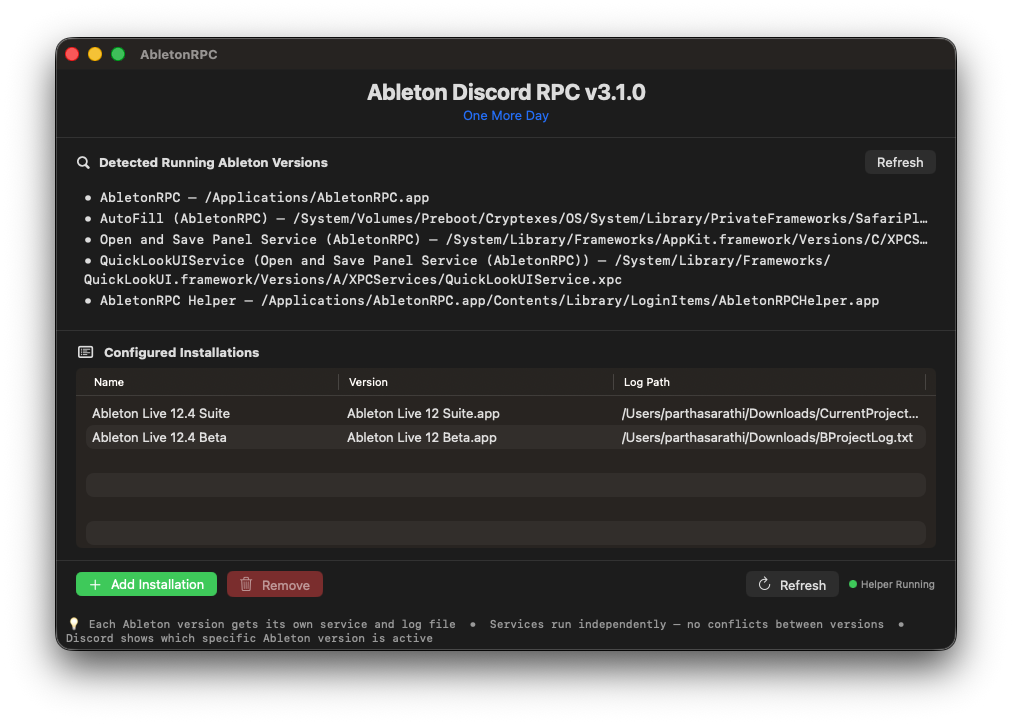
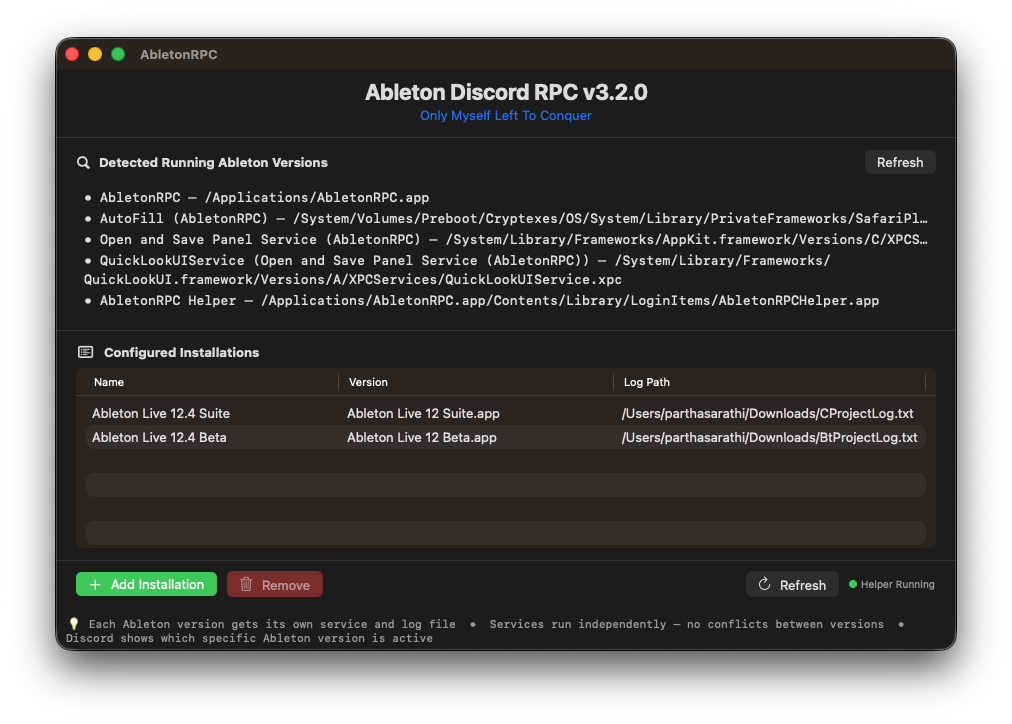
Bumped version to 3.2.0 and fixed per-track monitoring

Changed region(s): [[0.3676, 0.0912, 0.6433, 0.1823], [0.8271, 0.547, 0.919, 0.6381]]

diff --git a/AbletonRPC/ContentView.swift b/AbletonRPC/ContentView.swift
@@ -33,9 +33,9 @@ struct ContentView: View {
 
     private var header: some View {
         VStack(spacing: 2) {
-            Text("Ableton Discord RPC v3.1.0")
+            Text("Ableton Discord RPC v3.2.0")
                 .font(.system(size: 22, weight: .bold))
-            Text("One More Day")
+            Text("Only Myself Left To Conquer")
                 .font(.system(size: 13))
                 .foregroundColor(.accentColor)
         }

diff --git a/Resources/ableton_rpc.py b/Resources/ableton_rpc.py
@@ -241,9 +241,17 @@ class FauxMIDI(ControlSurface):
             self._debug_log(f"Listener setup error: {e}")
 
     def _get_track_info(self):
-        """Return (track_name, track_type, device_name) for the currently selected track."""
+        """Return (track_name, track_type, device_name) for the currently selected track.
+
+        Device selection priority (v3.2.0):
+          - 0 devices  → None
+          - 1 device   → show it regardless of type
+          - 2 devices  → show the LAST one (first is usually the instrument, e.g. Serum)
+          - 3+ devices → show the currently focused device (user has explicitly selected something)
+        Device type codes: 0=AudioEffect, 1=Instrument, 2=MIDIEffect
+        """
         try:
-            view = self.song.view
+            view  = self.song.view
             track = getattr(view, "selected_track", None)
             if track is None:
                 return None, None, None
@@ -260,18 +268,36 @@ class FauxMIDI(ControlSurface):
             except Exception:
                 pass
 
-            # Selected device via track view
+            # Smart device selection
             device_name = None
             try:
-                track_view = getattr(track, "view", None)
-                selected_device = getattr(track_view, "selected_device", None) if track_view else None
-                if selected_device is None:
-                    # Fall back to selected_device on song view
-                    selected_device = getattr(view, "selected_device", None)
-                if selected_device:
-                    device_name = getattr(selected_device, "name", None) or None
-            except Exception:
-                pass
+                devices = list(getattr(track, "devices", []))
+                count   = len(devices)
+
+                if count == 0:
+                    chosen = None
+                elif count == 1:
+                    chosen = devices[0]
+                elif count == 2:
+                    # First slot is almost always the instrument — show the last one
+                    chosen = devices[-1]
+                else:
+                    # 3+ devices: show whatever the user has focused
+                    track_view      = getattr(track, "view", None)
+                    selected_device = getattr(track_view, "selected_device", None) if track_view else None
+                    if selected_device is None:
+                        selected_device = getattr(view, "selected_device", None)
+                    # If nothing is explicitly focused, fall back to last non-instrument device
+                    if selected_device is None:
+                        effects = [d for d in devices if getattr(d, "type", -1) != 1]
+                        chosen  = effects[-1] if effects else devices[-1]
+                    else:
+                        chosen = selected_device
+
+                if chosen is not None:
+                    device_name = getattr(chosen, "name", None) or None
+            except Exception as e:
+                self._debug_log(f"Device selection error: {e}")
 
             return track_name, track_type, device_name
         except Exception as e:

diff --git a/README.md b/README.md
@@ -112,9 +112,34 @@ AbletonRPC supports running multiple Ableton versions simultaneously (e.g. Live 
 
 ## Upgrading
 
+### Clearing stale daemons (do this after any upgrade)
+
+After installing a new version, old daemon processes from the previous session may still be running. If your rich presence stops updating after an upgrade, run this first:
+
+```bash
+pkill -f "ableton_rpc.py" 2>/dev/null
+rm -f ~/Library/Application\ Support/AbletonRPC/daemon-*.lock
+```
+
+The helper will automatically relaunch the correct daemons within a few seconds. You should then see one daemon process per configured installation:
+
+```bash
+ps aux | grep "ableton_rpc" | grep -v grep
+```
+
+### v3.1.0 → v3.2.0
+
+Drop-in upgrade — no reinstall required. Rebuild and install:
+
+```bash
+./build.sh --install
+```
+
+Then clear stale daemons as above. Re-add your installations in the GUI to get the updated FauxMIDI script with smarter device reporting.
+
 ### v3.0.0 → v3.1.0
 
-Drop-in upgrade — no reinstall required. Replace `ableton_rpc.py` in the bundle and restart the helper. To get track and device info in your presence, re-add your installations via the GUI so the updated FauxMIDI script gets reinstalled.
+Drop-in — replace `ableton_rpc.py` and rebuild. Clear stale daemons after installing. Re-add your installations to get the updated FauxMIDI script with track and device support.
 
 ### v1.x / v2.x → v3.x
 
@@ -177,6 +202,19 @@ No. FauxMIDI is a passive observer — it only reads song state. It does not sen
 **Q. My art assets aren't showing in Discord rich presence.**
 
 Discord takes 10–60 minutes to propagate newly uploaded assets from the Developer Portal. Don't re-upload — just wait.
+
+---
+
+**Q. The presence stopped working after updating AbletonRPC.**
+
+Stale daemon processes from the previous version are likely still running and blocking the new ones. Run:
+
+```bash
+pkill -f "ableton_rpc.py" 2>/dev/null
+rm -f ~/Library/Application\ Support/AbletonRPC/daemon-*.lock
+```
+
+The helper will relaunch everything automatically within a few seconds.
 
 ---
 
